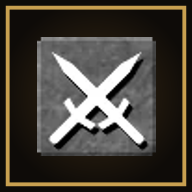
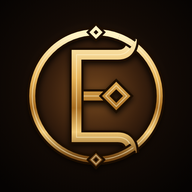
v0.49.25 스킬북 겹치기 · 등급별 자동 줍기 · 아이콘 겹침 정리 · 새 앱 아이콘
- 같은 스킬북은 한 칸에 쌓이고 하나 · 모두 사용 (모두 쓰면 권마다 숙련 EXP), 예전 저장도 합침
- 자동 사냥 줍기: 스킬북 등급별 (book1~5, 예전 book 설정 이어받음)
- 색만 다른 같은 그림 스킬 아이콘: 새 그림 또는 SKILL_FILTER 빛깔, 문양(UI) 아이콘 쓰던 스킬 · 약초 · 책 아이콘 교체
- 파편 아이콘 = 깨진 돌 (자수정과 같은 그림이던 것), tools/icon-dupes.mjs 검사 도구
- 앱 아이콘: 문양 E (tools/app-icon)

Claude-Session: https://claude.ai/code/session_0192xPhzVf3wibaBFZpdV7oG

diff --git a/src/data/flareWorld.js b/src/data/flareWorld.js
@@ -321,7 +321,7 @@ for (const [k, n] of Object.entries({ dagger: 1049, stiletto: 1033, kris: 1041, 
 Object.assign(ITEM_LOOK, { el_armor2: { icon: 2332 }, el_might2: { icon: 2349 }, el_swift2: { icon: 2347 }, el_haste2: { icon: 2344 }, el_focus2: { icon: 2341 }, el_luck2: { icon: 2345 } }); // 2단계 주문서는 1단계와 다른 두루마리
 { const books = [2298, 2308, 2316, 2309, 2310, 2324, 2299]; let n = 0;
   for (const k of Object.keys(ITEM_LOOK)) { if (/^h\d+_tome$/.test(k)) ITEM_LOOK[k].icon = books[n++ % books.length]; if (/^h\d+_l_dex_off$/.test(k)) ITEM_LOOK[k].icon = 2351; } }
-ITEM_LOOK.shard.icon = 2285; for (const k of ['ess2', 'ess3', 'ess4', 'ess5']) ITEM_LOOK[k].icon = 1010;
+ITEM_LOOK.shard.icon = 2097; for (const k of ['ess2', 'ess3', 'ess4', 'ess5']) ITEM_LOOK[k].icon = 1010;
 // v0.49.24 드라이브 나무 14종 (assets/drive/trees, 3D 렌더 · 그림자 포함): 한 방향(0)만 써서 그림자 방향을 맞춘다
 // [가로, 기준점 x, 기준점 y] — 기준점은 줄기 밑동. 그림 높이 360이라 Flare 나무 크기에 맞춰 1.35배
 export const DRIVE_TREES = { 1: [327, 159, 330], 2: [174, 78, 330], 3: [231, 94, 352], 4: [271, 119, 334], 5: [357, 182, 300], 6: [266, 159, 320], 7: [174, 81, 341],
@@ -333,3 +333,6 @@ for (const [z, list] of Object.entries({
   grave: [_DT([10, 6], 18)], swamp: [_DT([5, 6, 10], 30)], bloodmire: [_DT([5, 10, 14], 24)], harbor: [_DT([3, 4, 5], 22)],
   valley: [_DT([3, 4, 10], 14)], ashland: [_DT([10], 12)], frost: [_DT([2, 7], 14)], wild: [_DT([1, 8, 9, 13, 2, 11], 1)],
 })) if (ZONE_PROPS[z]) ZONE_PROPS[z] = [...ZONE_PROPS[z], ...list];
+// v0.49.25 색만 다른 같은 그림을 쓰던 스킬: 새 그림 또는 확실히 다른 빛깔(필터)로 (tools/icon-dupes.mjs로 검사)
+Object.assign(SKILL_ICON, {battle_spirit: 2239, flame_blade: 295, frost_arrow_rain: 302, holy_strike: 298, ice_prison: 2007, iron_monk: 369, judgement: 338, judgement_wave: 299, mana_shield: 372, piercing_arrow: 342, poison_edge: 2056, power_strike: 330, sanctuary: 359, scatter_shot: 353, shield_charge: 2044, shield_slam: 311, spirit_arrow: 304, static_field: 285, thunder_cleave: 297, thunder_strike: 284, tumble: 2152, vengeance: 2246, wind_volley: 305, aw_dex1: 383, aw_dex2: 384, aw_dex3: 385, aw_dex4a: 386, aw_dex4b: 387, aw_dex5b: 390, aw_dex5c: 391, aw_int1: 315, aw_int2: 316, aw_int3: 317, aw_int4b: 319, aw_int5: 375, aw_str3: 380, aw_str4a: 381, aw_str4b: 382, aw_str5: 373, aw_str5b: 388, aw_str5c: 2041, aw_vit1: 325, aw_vit4a: 328, aw_vit4b: 329, aw_vit5: 377, aw_wis3: 322, aw_wis4b: 324, aw_wis5: 2033, aw_x_di: 2099, aw_x_dv: 2130, aw_x_dw: 403, aw_x_iw: 2081, aw_x_sv: 2236, aw_x_sw: 400, aw_x_wv: 407, g_dex3_1: 444, g_dex5_0: 452, g_dex5_1: 453, g_str3_0: 420, g_str3_1: 421, g_str3_2: 422, g_vit1_0: 503, g_vit2_0: 508, g_vit2_1: 2240, g_vit3_0: 2061, g_vit3_1: 514, g_vit3_2: 2244, g_vit3_3: 2045, g_vit4_2: 520, g_vit5_1: 523, g_wis1_0: 479, g_wis2_0: 2104, g_wis2_1: 2005, g_wis3_0: 2111, g_wis3_1: 490, g_wis3_2: 2182, g_wis3_3: 2164, g_wis5_0: 498, m_dexintwis4: 2074, m_strint3: 2211});
+export const SKILL_FILTER = {flame_blade: 'hue-rotate(150deg) saturate(1.25)', frost_arrow_rain: 'hue-rotate(180deg) saturate(1.25)', holy_strike: 'hue-rotate(105deg) saturate(1.25)', iron_monk: 'hue-rotate(195deg) saturate(1.25)', judgement: 'hue-rotate(90deg) saturate(1.25)', judgement_wave: 'hue-rotate(135deg) saturate(1.25)', mana_shield: 'hue-rotate(165deg) saturate(1.25)', piercing_arrow: 'hue-rotate(255deg) saturate(1.25)', power_strike: 'hue-rotate(135deg) saturate(1.25)', sanctuary: 'hue-rotate(270deg) saturate(1.25)', scatter_shot: 'hue-rotate(240deg) saturate(1.25)', shield_slam: 'hue-rotate(285deg) saturate(1.25)', spirit_arrow: 'hue-rotate(300deg) saturate(1.25)', static_field: 'hue-rotate(180deg) saturate(1.25)', thunder_cleave: 'hue-rotate(75deg) saturate(1.25)', thunder_strike: 'hue-rotate(285deg) saturate(1.25)', wind_volley: 'hue-rotate(165deg) saturate(1.25)', aw_dex1: 'hue-rotate(120deg) saturate(1.25)', aw_dex2: 'hue-rotate(90deg) saturate(1.25)', aw_dex3: 'hue-rotate(45deg) saturate(1.25)', aw_dex4a: 'hue-rotate(150deg) saturate(1.25)', aw_dex4b: 'hue-rotate(210deg) saturate(1.25)', aw_dex5b: 'hue-rotate(210deg) saturate(1.25)', aw_dex5c: 'hue-rotate(255deg) saturate(1.25)', aw_int1: 'hue-rotate(150deg) saturate(1.25)', aw_int2: 'hue-rotate(165deg) saturate(1.25)', aw_int3: 'hue-rotate(105deg) saturate(1.25)', aw_int4b: 'hue-rotate(60deg) saturate(1.25)', aw_int5: 'hue-rotate(210deg) saturate(1.25)', aw_str3: 'hue-rotate(225deg) saturate(1.25)', aw_str4a: 'hue-rotate(120deg) saturate(1.25)', aw_str4b: 'hue-rotate(240deg) saturate(1.25)', aw_str5: 'hue-rotate(105deg) saturate(1.25)', aw_str5b: 'hue-rotate(60deg) saturate(1.25)', aw_vit1: 'hue-rotate(270deg) saturate(1.25)', aw_vit4a: 'hue-rotate(105deg) saturate(1.25)', aw_vit4b: 'hue-rotate(270deg) saturate(1.25)', aw_vit5: 'hue-rotate(300deg) saturate(1.25)', aw_wis3: 'hue-rotate(75deg) saturate(1.25)', aw_wis4b: 'hue-rotate(315deg) saturate(1.25)', aw_x_dw: 'hue-rotate(210deg) saturate(1.25)', aw_x_sw: 'hue-rotate(210deg) saturate(1.25)', aw_x_wv: 'hue-rotate(180deg) saturate(1.25)', g_dex3_1: 'hue-rotate(165deg) saturate(1.25)', g_dex5_0: 'hue-rotate(105deg) saturate(1.25)', g_dex5_1: 'hue-rotate(135deg) saturate(1.25)', g_str3_0: 'hue-rotate(150deg) saturate(1.25)', g_str3_1: 'hue-rotate(300deg) saturate(1.25)', g_str3_2: 'hue-rotate(105deg) saturate(1.25)', g_vit1_0: 'hue-rotate(150deg) saturate(1.25)', g_vit2_0: 'hue-rotate(180deg) saturate(1.25)', g_vit3_1: 'hue-rotate(60deg) saturate(1.25)', g_vit4_2: 'hue-rotate(150deg) saturate(1.25)', g_vit5_1: 'hue-rotate(165deg) saturate(1.25)', g_wis1_0: 'hue-rotate(75deg) saturate(1.25)', g_wis3_1: 'hue-rotate(330deg) saturate(1.25)', g_wis5_0: 'hue-rotate(90deg) saturate(1.25)', m_dexintwis4: 'hue-rotate(120deg) saturate(1.25)', m_strint3: 'hue-rotate(180deg) saturate(1.25)'};

diff --git a/src/ui/windows.js b/src/ui/windows.js
@@ -265,7 +265,8 @@ export class Windows {
     h += '<div class="btns">';
     if (it.shard && it.vals?.length > 1 && !it.lock) h += `<button class="btn" data-shkeep="${it.uid}">가장 높은 값만 남기기</button>`; // v0.49.11 파편 묶음
     if (where === 'inv') {
-      if (!it.shard && b?.type !== 'mat') h += `<button class="btn gold" data-act="use">${isBook(it) ? '배우기' : b.type === 'potion' ? '사용' : b.type === 'elixir' ? '읽기' : b.type === 'pet' ? '부르기' : b.type === 'map' ? '펼치기' : '장착'}</button>`;
+      if (isBook(it) && (it.qty || 1) > 1) h += `<button class="btn gold" data-act="useall">모두 사용 ×${it.qty}</button>`; // v0.49.25 같은 스킬북은 겹친다: 하나만 · 모두
+      if (!it.shard && b?.type !== 'mat') h += `<button class="btn gold" data-act="use">${isBook(it) ? (st.skills[it.book] ? '하나 흡수' : '배우기') : b.type === 'potion' ? '사용' : b.type === 'elixir' ? '읽기' : b.type === 'pet' ? '부르기' : b.type === 'map' ? '펼치기' : '장착'}</button>`;
       if (b?.type === 'elixir') { const on = !!st.settings?.autoScroll?.[it.base]; h += `<button class="btn${on ? ' on' : ''}" data-ascroll="${it.base}">${on ? '자동 사용 끄기' : '자동 사용'}</button>`; }
       // 물약 퀵슬롯: 이 물약을 체력 · 마나 칸에 두거나 뺀다
       if (b?.type === 'potion') for (const [k, nm] of [['hp', '체력 칸'], ['mp', '마나 칸']]) {
@@ -1259,7 +1260,7 @@ export class Windows {
         <div class="setRow"><span>화면 흔들림</span><div class="opts">${onoff('shake', set.shake !== false)}</div></div>
         <div class="setRow"><span>자동 물약</span><div class="opts">${[0.3, 0.4, 0.5, 0.6].map((v) => `<button class="btn${set.autoPotion === v ? ' on' : ''}" data-pot="${v}">${v * 100}%</button>`).join('')}</div></div>
         <div class="setRow"><span>자동 사냥 필드 보스</span><div class="opts"><button class="btn${set.autoBoss ? ' on' : ''}" data-autoboss="1">잡기</button><button class="btn${!set.autoBoss ? ' on' : ''}" data-autoboss="0">피하기</button></div></div>
-        <div class="setRow pickRow"><span>자동 사냥 줍기</span><div class="pickGrid">${[['common', '일반'], ['magic', '마법'], ['rare', '희귀'], ['hero', '영웅'], ['legend', '전설'], ['potion', '물약'], ['gem', '보석'], ['book', '스킬북'], ['mat', '재료 · 파편']].map(([k, n]) => `<label class="pickChk"><input type="checkbox" data-apick="${k}" ${(set.autoPick || {})[k] !== false ? 'checked' : ''} /><span>${n}</span></label>`).join('')}</div></div>
+        <div class="setRow pickRow"><span>자동 사냥 줍기</span><div class="pickGrid">${[['common', '일반'], ['magic', '마법'], ['rare', '희귀'], ['hero', '영웅'], ['legend', '전설'], ['potion', '물약'], ['gem', '보석'], ['mat', '재료 · 파편'], ...Object.entries(BOOK_TIERS).map(([t, b]) => ['book' + t, `${b.name} 스킬북`])].map(([k, n]) => `<label class="pickChk"><input type="checkbox" data-apick="${k}" ${((set.autoPick || {})[k] ?? (k.startsWith('book') ? (set.autoPick || {}).book : true)) !== false ? 'checked' : ''} /><span>${n}</span></label>`).join('')}</div></div>
         <div class="setRow"><span>물약 자동 구매</span><div class="opts">${onoff('autoBuy', set.autoBuy !== false)}</div></div>
         <div class="setRow"><span>자동 판매 등급</span><div class="opts">${[['off', '끔'], ['common', '일반'], ['magic', '마법'], ['rare', '희귀']].map(([k, n]) => `<button class="btn${(set.autoSell === false ? 'off' : set.autoSellTo || 'rare') === k ? ' on' : ''}" data-sellto="${k}">${n}</button>`).join('')}</div></div>
         <div class="setRow"><span>단축키 (PC)</span><div class="opts"><button class="btn${this.keyEdit ? ' on' : ''}" data-keyedit="1">단축키 지정</button></div></div>
@@ -1309,6 +1310,7 @@ export class Windows {
           if (!(await gameConfirm(a === 'drop' ? '버리기' : '판매', a === 'drop' ? '바닥에 버립니다' : `${n0 > 1 ? `${n0}개 · ` : ''}${itemValue({ ...it0, qty: n0 }).toLocaleString()} G`, a === 'drop' ? '버리기' : '판매', itemHtml(it0)))) return;
           nPick = n0; } }
       if (a === 'use') w.useItem(this.sel.uid);
+      if (a === 'useall') w.useItem(this.sel.uid, { all: true });
       if (a === 'unequip') w.unequip(this.sel.slot);
       const selIt = st.inv.find((x) => x.uid === this.sel?.uid);
       if (selIt?.lock && ['drop', 'sell', 'sellall'].includes(a)) { w.ui.toast('잠근 아이템입니다'); audio.play('error'); return; }
@@ -1325,7 +1327,7 @@ export class Windows {
         w.ui.dirty();
       }
       // 물약처럼 남아 있으면 계속 골라 둔다
-      if (!(a === 'use' && st.inv.some((x) => x.uid === this.sel?.uid))) this.sel = null;
+      if (!((a === 'use' || a === 'useall') && st.inv.some((x) => x.uid === this.sel?.uid))) this.sel = null;
       this.render();
     });
     on('[data-skill]', (el) => { this.skillSel = el.dataset.skill; audio.play('click'); this.render(); });

diff --git a/src/ui/icons.js b/src/ui/icons.js
@@ -1,11 +1,14 @@
 // 아이콘: Flare 아이콘 묶음(icons.webp, 64×64 칸 8줄)에서 잘라 쓴다. 초상화는 Flare 초상화 그림
 import { BASES } from '../data/items.js';
 import { SKILLS, BOOK_TIERS } from '../data/skills.js';
-import { ITEM_LOOK, SKILL_ICON, faceOf } from '../data/flareWorld.js';
+import { ITEM_LOOK, SKILL_ICON, SKILL_FILTER, faceOf } from '../data/flareWorld.js';
 import { SCHOOL_ICON } from '../data/skills_more.js';
 import { image, DATA, animImage } from '../engine2d/sprites.js';
 import { ELIXIRS, HERBS } from '../data/potions.js';
-export const herbIcon = (id) => iconUrl(40, HERBS[id].color); // v0.40.1 약초는 모두 풀 그림 + 색 테두리 (보석과 구분)
+// v0.49.25 약초마다 다른 풀 · 꽃 그림 (예전엔 모두 같은 문양) + 색 테두리
+const HERB_ICON = { red: [2021, 'hue-rotate(240deg)'], blue: [2057, 'hue-rotate(100deg)'], iron: [2060, 'grayscale(1) brightness(1.15)'], sun: [2125, 'hue-rotate(90deg)'], wind: [2022], moon: [2147],
+  gold: [2012, 'hue-rotate(-60deg) saturate(1.3)'], frost: [2010], blood: [2118], star: [2139], dragon: [2241], world: [2013] };
+export const herbIcon = (id) => iconUrl(HERB_ICON[id]?.[0] ?? 2013, HERBS[id].color, HERB_ICON[id]?.[1] || '');
 
 const SHEET = 'icons.webp', S = 64;
 export const ESS_COLOR = { 2: '#8ab0ff', 3: '#c58cff', 4: '#ff9a4a', 5: '#ff4a6a' };
@@ -34,8 +37,8 @@ export function iconUrl(index, frame = null, filter = '') {
 }
 
 export function itemIcon(it) {
-  if (it.book) return iconUrl(SKILL_ICON[it.book] ?? SCHOOL_ICON[SKILLS[it.book]?.school] ?? 225, BOOK_TIERS[SKILLS[it.book].tier].color); // v0.41 책은 그 스킬 아이콘 + 단계 색 테두리
-  if (it.shard) return iconUrl(2285, '#c58cff'); // 능력치 파편: 보랏빛 수정 (v0.49.24, 예전엔 문양) · 모두 같은 그림 + 칸 아래 옵션 글 (cellTag)
+  if (it.book) return iconUrl(SKILL_ICON[it.book] ?? SCHOOL_ICON[SKILLS[it.book]?.school] ?? 225, BOOK_TIERS[SKILLS[it.book].tier].color, SKILL_FILTER[it.book] || ''); // v0.41 책은 그 스킬 아이콘 + 단계 색 테두리
+  if (it.shard) return iconUrl(2097, '#c58cff'); // 능력치 파편: 깨진 돌 조각 (v0.49.25, 보랏빛 수정은 자수정과 같은 그림이라 바꿈) · 모두 같은 그림 + 칸 아래 옵션 글 (cellTag)
   if (BASES[it.base]?.type === 'pet') return petIcon(BASES[it.base].pet);
   if (ELIXIRS[it.base]) return iconUrl(ITEM_LOOK[it.base]?.icon ?? 84, ELIXIRS[it.base].color);
   if (it.base === 'myth_mark') return iconUrl(1011, '#ff4a8a'); // 신화의 흔적: 분홍 테두리
@@ -51,15 +54,15 @@ export function itemIcon(it) {
   const b = BASES[it.base];
   return iconUrl(b?.type === 'potion' ? 64 : 0);
 }
-export const skillIcon = (id) => iconUrl(SKILL_ICON[id] ?? SCHOOL_ICON[SKILLS[id]?.school] ?? 0);
+export const skillIcon = (id) => iconUrl(SKILL_ICON[id] ?? SCHOOL_ICON[SKILLS[id]?.school] ?? 0, null, SKILL_FILTER[id] || ''); // v0.49.25 같은 그림은 빛깔을 바꿔서
 export const portrait = (look) => 'assets/flare/portraits/' + faceOf(look?.face)[1] + '.webp';
 export const chestIcon = () => iconUrl(1009);
-export const bookIcon = () => iconUrl(28);
+export const bookIcon = () => iconUrl(2296); // v0.49.25 문양(UI 그림) 대신 책 그림
 export const coinIcon = () => iconUrl(1008);
 export const scrollIcon = () => iconUrl(224);
-export const homeIcon = () => iconUrl(19);
-export const duelIcon = () => iconUrl(1);
-export const swordIcon = () => iconUrl(1);
+export const homeIcon = () => iconUrl(103);
+export const duelIcon = () => iconUrl(1043);
+export const swordIcon = () => iconUrl(1043);
 export const townIcon = () => iconUrl(103);
 // 강화석: 금강석(보석)과 헷갈리지 않게 잿빛 돌 + 주황 테두리
 export const oreIcon = () => iconUrl(71, '#e0903a', 'grayscale(1) sepia(.6) brightness(.62) contrast(1.3)');

diff --git a/src/game/vault.js b/src/game/vault.js
@@ -4,6 +4,7 @@ import { BASES } from '../data/items.js';
 import { addItem, bagSize } from './inventory.js';
 import { cloud } from '../net/cloud.js';
 import { mergeShard } from './shards.js';
+import { isStack, sameStack } from './items.js';
 
 export const VAULT_BASE = 100;
 export const VAULT_PER = 20; // 연구 단계마다
@@ -23,7 +24,7 @@ export const oldVault = () => { try { return JSON.parse(localStorage.getItem(KEY
 export function restoreOldVault(st) {
   const old = oldVault(); if (!old || !synced) return { ok: false };
   const have = new Set(V.items.map((x) => JSON.stringify({ ...x, uid: 0, qty: 0 })));
-  let n = 0; for (const it of old) { if (V.items.length >= vaultSize(st)) break; const k = JSON.stringify({ ...it, uid: 0, qty: 0 }); if (have.has(k) && !BASES[it.base]?.stack) continue; const same = BASES[it.base]?.stack && V.items.find((x) => x.base === it.base); if (same) same.qty += it.qty; else V.items.push(it); n++; }
+  let n = 0; for (const it of old) { if (V.items.length >= vaultSize(st)) break; const k = JSON.stringify({ ...it, uid: 0, qty: 0 }); if (have.has(k) && !BASES[it.base]?.stack) continue; const same = stack(it) && V.items.find((x) => sameStack(x, it)); if (same) same.qty = (same.qty || 1) + (it.qty || 1); else V.items.push(it); n++; }
   try { localStorage.removeItem(KEY + '-old'); } catch { /* 무시 */ }
   save(); return { ok: true, n };
 }
@@ -49,7 +50,7 @@ export async function syncVault() {
     synced = true;
   }
 }
-const stack = (it) => !!BASES[it.base]?.stack;
+const stack = (it) => isStack(it); // 스킬북도 같은 스킬끼리 쌓인다 (v0.49.25)
 // 가방 → 창고
 export function vaultPut(st, uid) {
   if (!vaultReady()) return { ok: false, why: '창고를 불러오는 중입니다' };
@@ -57,10 +58,10 @@ export function vaultPut(st, uid) {
   if (i < 0) return { ok: false };
   const it = st.inv[i];
   if (it.rarity === 'myth') it.owner ||= st.cid; // v0.44.18 신화 장비는 넣은 캐릭터만 다시 꺼낼 수 있다
-  const same = stack(it) && V.items.find((x) => x.base === it.base), shSame = it.shard && V.items.some((x) => x?.shard?.id === it.shard.id);
+  const same = stack(it) && V.items.find((x) => sameStack(x, it)), shSame = it.shard && V.items.some((x) => x?.shard?.id === it.shard.id);
   if (!same && !shSame && V.items.length >= vaultSize(st)) return { ok: false, why: '창고가 가득 찼습니다' };
   st.inv.splice(i, 1);
-  if (shSame) mergeShard(V.items, it); else if (same) same.qty += it.qty; else V.items.push(it);
+  if (shSame) mergeShard(V.items, it); else if (same) same.qty = (same.qty || 1) + (it.qty || 1); else V.items.push(it);
   save();
   return { ok: true };
 }
@@ -69,9 +70,9 @@ export function vaultAdd(st, it) {
   if (!vaultReady()) return false;
   if (it?.rarity === 'myth') it.owner ||= st.cid;
   if (it?.shard && mergeShard(V.items, it)) { save(); return true; } // 같은 옵션 파편은 한 칸에
-  const same = stack(it) && V.items.find((x) => x.base === it.base);
+  const same = stack(it) && V.items.find((x) => sameStack(x, it));
   if (!same && V.items.length >= vaultSize(st)) return false;
-  if (same) same.qty += it.qty; else V.items.push(it);
+  if (same) same.qty = (same.qty || 1) + (it.qty || 1); else V.items.push(it);
   save();
   return true;
 }

diff --git a/src/world/world.js b/src/world/world.js
@@ -1390,6 +1390,7 @@ export class World {
     if (g.kind !== 'item' || !g.item) return true;
     const f = this.st.settings.autoPick || {}, it = g.item, b = BASES[it.base] || {};
     const cat = it.book ? 'book' : b.type === 'potion' || b.type === 'elixir' ? 'potion' : b.type === 'gem' ? 'gem' : b.type === 'mat' || it.shard ? 'mat' : b.slot ? (it.rarity || 'common') : 'etc';
+    if (cat === 'book') return f['book' + (SKILLS[it.book]?.tier || 1)] ?? f.book !== false; // v0.49.25 스킬북은 등급마다
     return f[cat] !== false;
   }
   get autoMult() { return this.auto ? CONFIG.autoPenalty : 1; }
@@ -2978,7 +2979,7 @@ export class World {
 
   // ───────── 가방 조작 (UI에서 호출) ─────────
 
-  useItem(uid) {
+  useItem(uid, { all = false } = {}) {
     const st = this.st;
     const it = st.inv.find((x) => x.uid === uid);
     if (!it) return;
@@ -2987,17 +2988,22 @@ export class World {
     this.d = derive(st, this.buffValues());
     if (BASES[it.base]?.type === 'pet') { takeOne(st, it.base); const cat = BASES[it.base].pet === 'pet_cat'; st.pet = { kind: cat ? 'pet_cat' : 'pet_dog', name: cat ? '고양이' : '강아지' }; this.makePet(); this.ui.toast(`${st.pet.name}가 함께합니다! 물건을 주워 오고 함께 싸웁니다`, '#7fe07a'); sfx('learn'); this.ui.dirty(); return; }
     if (isBook(it)) {
-      const c = canLearn(st, it.book, this.d.stats);
+      // v0.49.25 같은 스킬북은 겹쳐 쌓인다: 하나만 쓰거나(all=false) 모두 쓴다 — 이미 아는 스킬이면 권마다 숙련 EXP
+      const c = canLearn(st, it.book, this.d.stats), have = it.qty || 1;
+      const use = (n) => { it.qty = have - n; if (it.qty <= 0) st.inv.splice(st.inv.indexOf(it), 1); };
       if (c.ok) {
         learn(st, it.book);
-        st.inv.splice(st.inv.indexOf(it), 1);
-        this.ui.toast(`새 스킬을 배웠습니다: ${SKILLS[it.book].name}`, '#ffd84a');
+        const n = all ? have : 1, rest = n - 1;
+        use(n);
+        if (rest > 0) this.skillExp(it.book, (rest * bookAbsorbExp(it.book)) / this.d.skillExp / this.autoMult);
+        this.ui.toast(`새 스킬을 배웠습니다: ${SKILLS[it.book].name}${rest > 0 ? ` (+${rest}권 흡수)` : ''}`, '#ffd84a');
         sfx('learn');
         this.fx.pillar(this.player.pos.x, this.player.pos.z, 0x80c0ff, 1.2);
       } else if (c.known) {
-        st.inv.splice(st.inv.indexOf(it), 1);
-        this.skillExp(it.book, bookAbsorbExp(it.book) / this.d.skillExp / this.autoMult);
-        this.ui.toast(`${SKILLS[it.book].name} 숙련도를 흡수했습니다`);
+        const n = all ? have : 1;
+        use(n);
+        this.skillExp(it.book, (n * bookAbsorbExp(it.book)) / this.d.skillExp / this.autoMult);
+        this.ui.toast(`${SKILLS[it.book].name} 숙련도를 흡수했습니다${n > 1 ? ` (${n}권)` : ''}`);
       } else {
         const req = Object.entries(SKILLS[it.book].req).map(([k, v]) => `${STAT_NAMES[k] || k} ${v}`).join(', ');
         this.ui.toast(`스탯이 부족합니다 (${req})`);

diff --git a/tools/app-icon/index.html b/tools/app-icon/index.html
@@ -1,0 +1,32 @@
+<!-- 앱 아이콘 (v0.49.25): 문양 E. Playwright로 #ic를 512×512로 찍어 assets/icon-512.png · 192로 줄여 icon-192.png -->
+<!doctype html><html><head><meta charset="utf-8"><style>html,body{margin:0;background:#000}</style></head><body>
+<svg id="ic" width="512" height="512" viewBox="0 0 512 512" xmlns="http://www.w3.org/2000/svg">
+<defs>
+ <radialGradient id="bg" cx="50%" cy="45%" r="70%"><stop offset="0" stop-color="#2a1a0e"/><stop offset=".55" stop-color="#120a05"/><stop offset="1" stop-color="#050302"/></radialGradient>
+ <linearGradient id="gold" gradientUnits="userSpaceOnUse" x1="0" y1="96" x2="0" y2="416"><stop offset="0" stop-color="#fff1c2"/><stop offset=".35" stop-color="#e8b55a"/><stop offset=".6" stop-color="#a86d22"/><stop offset=".8" stop-color="#f0c876"/><stop offset="1" stop-color="#7a4c16"/></linearGradient>
+ <radialGradient id="glow" cx="50%" cy="50%" r="50%"><stop offset="0" stop-color="rgba(255,160,60,.35)"/><stop offset="1" stop-color="rgba(255,120,40,0)"/></radialGradient>
+ <filter id="sh"><feDropShadow dx="0" dy="6" stdDeviation="8" flood-color="#000" flood-opacity=".85"/></filter>
+</defs>
+<rect width="512" height="512" fill="url(#bg)"/>
+<circle cx="256" cy="256" r="200" fill="url(#glow)"/>
+<g id="knot" fill="none" stroke-linecap="round" stroke-linejoin="round" filter="url(#sh)"></g>
+</svg>
+<script>
+// 띠(band): 어두운 테두리 → 금빛 → 가는 하이라이트. 겹치는 곳은 위로 지나가는 조각을 다시 그려 엮인 모양을 만든다
+const NS='http://www.w3.org/2000/svg', g=document.getElementById('knot');
+const band=(d,w=24)=>{for(const [c,ww,o] of [['#1b0f05',w+12,1],['url(#gold)',w,1],['rgba(255,245,210,.55)',2.5,1]]){const p=document.createElementNS(NS,'path');p.setAttribute('d',d);p.setAttribute('stroke',c);p.setAttribute('stroke-width',ww);p.setAttribute('stroke-linecap',ww<6?'round':'butt');p.setAttribute('opacity',o);g.appendChild(p);}};
+// 고리
+const R=170, ring=`M ${256-R} 256 A ${R} ${R} 0 1 0 ${256+R} 256 A ${R} ${R} 0 1 0 ${256-R} 256`;
+band(ring,16);
+const arcAt=(a0,a1)=>{const p=(a)=>[256+R*Math.cos(a),256+R*Math.sin(a)];const [x0,y0]=p(a0),[x1,y1]=p(a1);return `M ${x0} ${y0} A ${R} ${R} 0 0 1 ${x1} ${y1}`;};
+// E: 위 팔 · 등줄기 · 아래 팔을 한 줄로 (끝은 바깥으로 휘어 오른다)
+g.setAttribute('stroke-linejoin','miter');
+band('M 214 256 L 282 256',24);
+band('M 352 104 Q 350 146 314 146 L 204 146 L 204 366 L 314 366 Q 350 366 352 408',26);
+// 가운데 팔 끝: 깨어남의 빛 (마름모)
+band('M 282 256 L 310 228 L 338 256 L 310 284 Z',14);
+// 엮기: 고리가 팔 끝 위로 지나간다 (오른쪽 위 · 아래)
+band(arcAt(-1.2,-0.95),16); band(arcAt(0.95,1.2),16);
+// 위아래 장식 마름모
+for (const [x,y] of [[256,86],[256,426]]) band(`M ${x} ${y-12} L ${x+12} ${y} L ${x} ${y+12} L ${x-12} ${y} Z`,8);
+</script></body></html>

diff --git a/src/main.js b/src/main.js
@@ -21,6 +21,7 @@ import { portrait, iconsReady } from './ui/icons.js';
 import { Tutorial } from './ui/tutorial.js';
 import { applyUi } from './ui/layout.js';
 import { packShards } from './game/shards.js';
+import { packBooks } from './game/inventory.js';
 import { cloud, cloudError } from './net/cloud.js';
 import { charIds, loadChar, saveChar, deleteChar, keyOf, newCid, CHAR_MAX, NICK_RE } from './game/chars.js';
 
@@ -241,9 +242,9 @@ export function showNotices(list) {
 
 function startGame(stage, st) {
   if (window.__started) return; window.__started = true; // 한 번만
-  packShards(st.inv); // v0.49.11 흩어진 파편을 옵션마다 한 칸으로
+  packShards(st.inv); packBooks(st.inv); // v0.49.11 흩어진 파편을 옵션마다 한 칸으로 · v0.49.25 같은 스킬북도 한 칸으로
   for (const t of st.titles || []) if (t.perk?.text) t.perk.text = t.perk.text.replace(/주문 피해 (\d+) (원소 폭발|파동|번개)/, '피해 $1% $2'); // v0.49.22 예전 칭호 글을 새 계산에 맞게
-  syncVault().then(() => { const fixed = capAll(vault().items) | packShards(vault().items); if (moveRetiredSkills({ skills: {}, inv: [] }, vault().items) || fixed) vaultSave(); }); // v0.44.62 예전 옵션 상한 정리 // 계정 공용 창고: 서버와 맞춘다 (v0.44.38 빠진 스킬북 옮기기)
+  syncVault().then(() => { const fixed = capAll(vault().items) | packShards(vault().items); const moved = moveRetiredSkills({ skills: {}, inv: [] }, vault().items); if (packBooks(vault().items) || moved || fixed) vaultSave(); }); // v0.44.62 예전 옵션 상한 정리 // 계정 공용 창고: 서버와 맞춘다 (v0.44.38 빠진 스킬북 옮기기)
   // 접속할 때마다 새 세상: 씨앗으로 지역 자리 · 지형 · 던전을 새로 만든다.
   // 지도 안개 · 바닥 아이템은 지우고 마을에서 시작. 야영지 투자(상인 · 모닥불)는 지역별로 남긴다
   // 맵이 새로 만들어져도 죽으며 떨어뜨린 아이템은 잃지 않는다: 마을 입구 앞으로 옮기고 다시 15분을 준다 (업데이트 · 새로고침으로 사라지던 문제)

diff --git a/src/game/inventory.js b/src/game/inventory.js
@@ -1,7 +1,7 @@
 // 가방 · 장착
 import { CONFIG } from '../data/config.js';
 import { BASES, isTwoHandedBase } from '../data/items.js';
-import { isStack } from './items.js';
+import { isStack, sameStack } from './items.js';
 import { meetsReq } from './skills.js';
 import { totalStats } from './player.js';
 import { SHARD, shardFrom, mergeShard } from './shards.js';
@@ -10,8 +10,8 @@ export const bagSize = (st) => CONFIG.inventorySize + 8 * (st?.town?.research?.b
 export function addItem(st, it) {
   if (it?.shard && mergeShard(st.inv, it)) return true; // v0.49.11 같은 옵션 파편은 한 칸에
   if (isStack(it)) {
-    const same = st.inv.find((x) => x.base === it.base);
-    if (same) { same.qty += it.qty; return true; }
+    const same = st.inv.find((x) => sameStack(x, it));
+    if (same) { same.qty = (same.qty || 1) + (it.qty || 1); return true; }
   }
   if (st.inv.length >= bagSize(st)) return false;
   st.inv.push(it);
@@ -85,3 +85,13 @@ export function unequip(st, slot) {
 }
 
 export const isTwoHanded = (it) => isTwoHandedBase(BASES[it.base]);
+// v0.49.25 예전 저장: 같은 스킬의 스킬북을 한 칸으로 (바뀌었으면 true)
+export function packBooks(list) {
+  let ch = false;
+  for (let i = list.length - 1; i >= 0; i--) {
+    const it = list[i]; if (!it?.book) continue;
+    const j = list.findIndex((x) => x?.book === it.book);
+    if (j < i) { list[j].qty = (list[j].qty || 1) + (it.qty || 1); list.splice(i, 1); ch = true; }
+  }
+  return ch;
+}

diff --git a/src/game/items.js b/src/game/items.js
@@ -79,10 +79,12 @@ export function capAffixes(it) {
 export function capAll(list) { let n = 0; for (const it of list || []) if (it) n += capAffixes(it); return n; }
 
 export function makeBook(skillId, st = null) {
-  return { uid: uid(st), book: skillId };
+  return { uid: uid(st), book: skillId, qty: 1 };
 }
 
-export const isStack = (it) => !!BASES[it.base]?.stack;
+export const isStack = (it) => !!it?.book || !!BASES[it?.base]?.stack;
+// v0.49.25 같은 칸에 쌓이는 물건인지: 쌓는 물건은 같은 base, 스킬북은 같은 스킬끼리
+export const sameStack = (a, b) => !!a && !!b && (a.book ? a.book === b.book : !b.book && !!BASES[a.base]?.stack && a.base === b.base);
 export const isBook = (it) => !!it.book;
 export const isEquip = (it) => !it.book && !!BASES[it.base]?.slot;
 
@@ -111,7 +113,7 @@ export function itemColor(it) {
 
 export function itemValue(it) {
   if (it.shard) return 120 * (it.vals?.length || 1);
-  if (it.book) return 40 * SKILLS[it.book].tier ** 2;
+  if (it.book) return 40 * SKILLS[it.book].tier ** 2 * (it.qty || 1);
   const base = BASES[it.base];
   if (base.type === 'potion' || base.stack) return Math.max(1, Math.floor((base.price || 0) / 4)) * (it.qty || 1);
   const v = (base.price || 30) * (1 + 0.15 * (it.ilvl - 1)) * RARITY[it.rarity].value;

diff --git a/src/game/quests.js b/src/game/quests.js
@@ -2,7 +2,7 @@
 import { QUESTS, QUEST_BOOKS } from '../data/quests.js';
 import { BASES } from '../data/items.js';
 import { MONSTERS, ZONES } from '../data/world.js';
-import { makeItem, makeBook } from './items.js';
+import { makeItem, makeBook, isStack, sameStack } from './items.js';
 import { meetsReq } from './skills.js';
 import { totalStats } from './player.js';
 import { addItem } from './inventory.js';
@@ -77,7 +77,7 @@ export function questTurnIn(st, size) {
   const q = currentQuest(st);
   if (!q || !questDone(st)) return { ok: false };
   const items = rewardItems(st, q);
-  const need = items.filter((it) => !(BASES[it.base]?.stack && st.inv.some((x) => x.base === it.base))).length;
+  const need = items.filter((it) => !(isStack(it) && st.inv.some((x) => sameStack(x, it)))).length;
   if (st.inv.length + need > size) return { ok: false, bagFull: true, need, why: '가방이 가득 찼습니다' };
   for (const it of items) addItem(st, it);
   st.gold += q.reward.gold || 0;

diff --git a/src/data/patchnotes.js b/src/data/patchnotes.js
@@ -1,6 +1,11 @@
 // 패치 노트 (게임 안 [메뉴 → 패치 노트]에서 본다). 새 버전이 나오면 맨 위에 더한다.
-export const GAME_VERSION = '0.49.24';
+export const GAME_VERSION = '0.49.25';
 export const PATCH_NOTES = [
+  {
+    ver: '0.49.25', date: '2026-11-19',
+    head: '스킬북을 겹쳐 쌓을 수 있고, 아이콘을 정리했습니다.',
+    items: ['1. 같은 스킬북은 한 칸에 겹쳐집니다. 하나만 쓰거나 모두 써서 숙련도를 한 번에 올릴 수 있습니다.', '2. 설정의 자동 사냥 줍기에서 스킬북을 등급별로 고를 수 있습니다.', '3. 같은 그림을 쓰던 스킬 · 약초 아이콘을 모두 다른 그림이나 다른 빛깔로 바꿨습니다.', '4. 능력치 파편 아이콘이 보석과 겹치지 않게 바뀌었습니다.', '5. 앱 아이콘이 새 문양으로 바뀌었습니다.'],
+  },
   {
     ver: '0.49.24', date: '2026-11-19',
     head: '필드와 아이콘이 새로워졌습니다.',

diff --git a/docs/드라이브에셋.md b/docs/드라이브에셋.md
@@ -8,6 +8,7 @@
 - 아이콘: `tools/prep-icons4.mjs` → `assets/flare/icons4.webp` (2000번부터: 주문 2000 · 흑마법 2144 · 불꽃 2200 · 보물 2272 · 두루마리 2296 · 화살 묶음 2351). 같은 그림을 빌리던 스킬 108개(`flareWorld.js` 끝), 파편 · 화살통 · 마도서 · 지도 · 단검 · 2단계 주문서
 - 여성 모험가 → 늪의 대주술사 모르가 · 피의 마녀 사르바 (`SHARP_SWAP` bog_witch · blood_lord, 예전엔 어인 그림을 셋이 나눠 씀). 용병으로 썼다가 일터마다 도구를 못 들어 몬스터로 돌렸다. 갑옷 전사 → 폭풍의 왕 토르간 (`SHARP_SWAP.storm_king`). 주인공은 그림에 장비가 그려져 있어 장비를 바꿔 입힐 수 없으므로 넣지 않았다
 - 건물(주점 · 오두막)은 아직
+- v0.49.25: 모양이 같은 그림(색만 다른 Painterly 아이콘 포함)을 `tools/icon-dupes.mjs`(번호 겹침) · 모양 비교로 다시 정리. 스킬은 새 그림 또는 `SKILL_FILTER`(빛깔 바꾸기), 약초 12종 `HERB_ICON`, 파편 2097(깨진 돌). 문양(icons.webp 0~63)은 HUD 단추에만 쓴다
 
 ## 저장소에 올린 것 (assets/drive/)
 | 파일 | 원본 | 내용 | 쓸 곳 (안) | 라이선스 |
